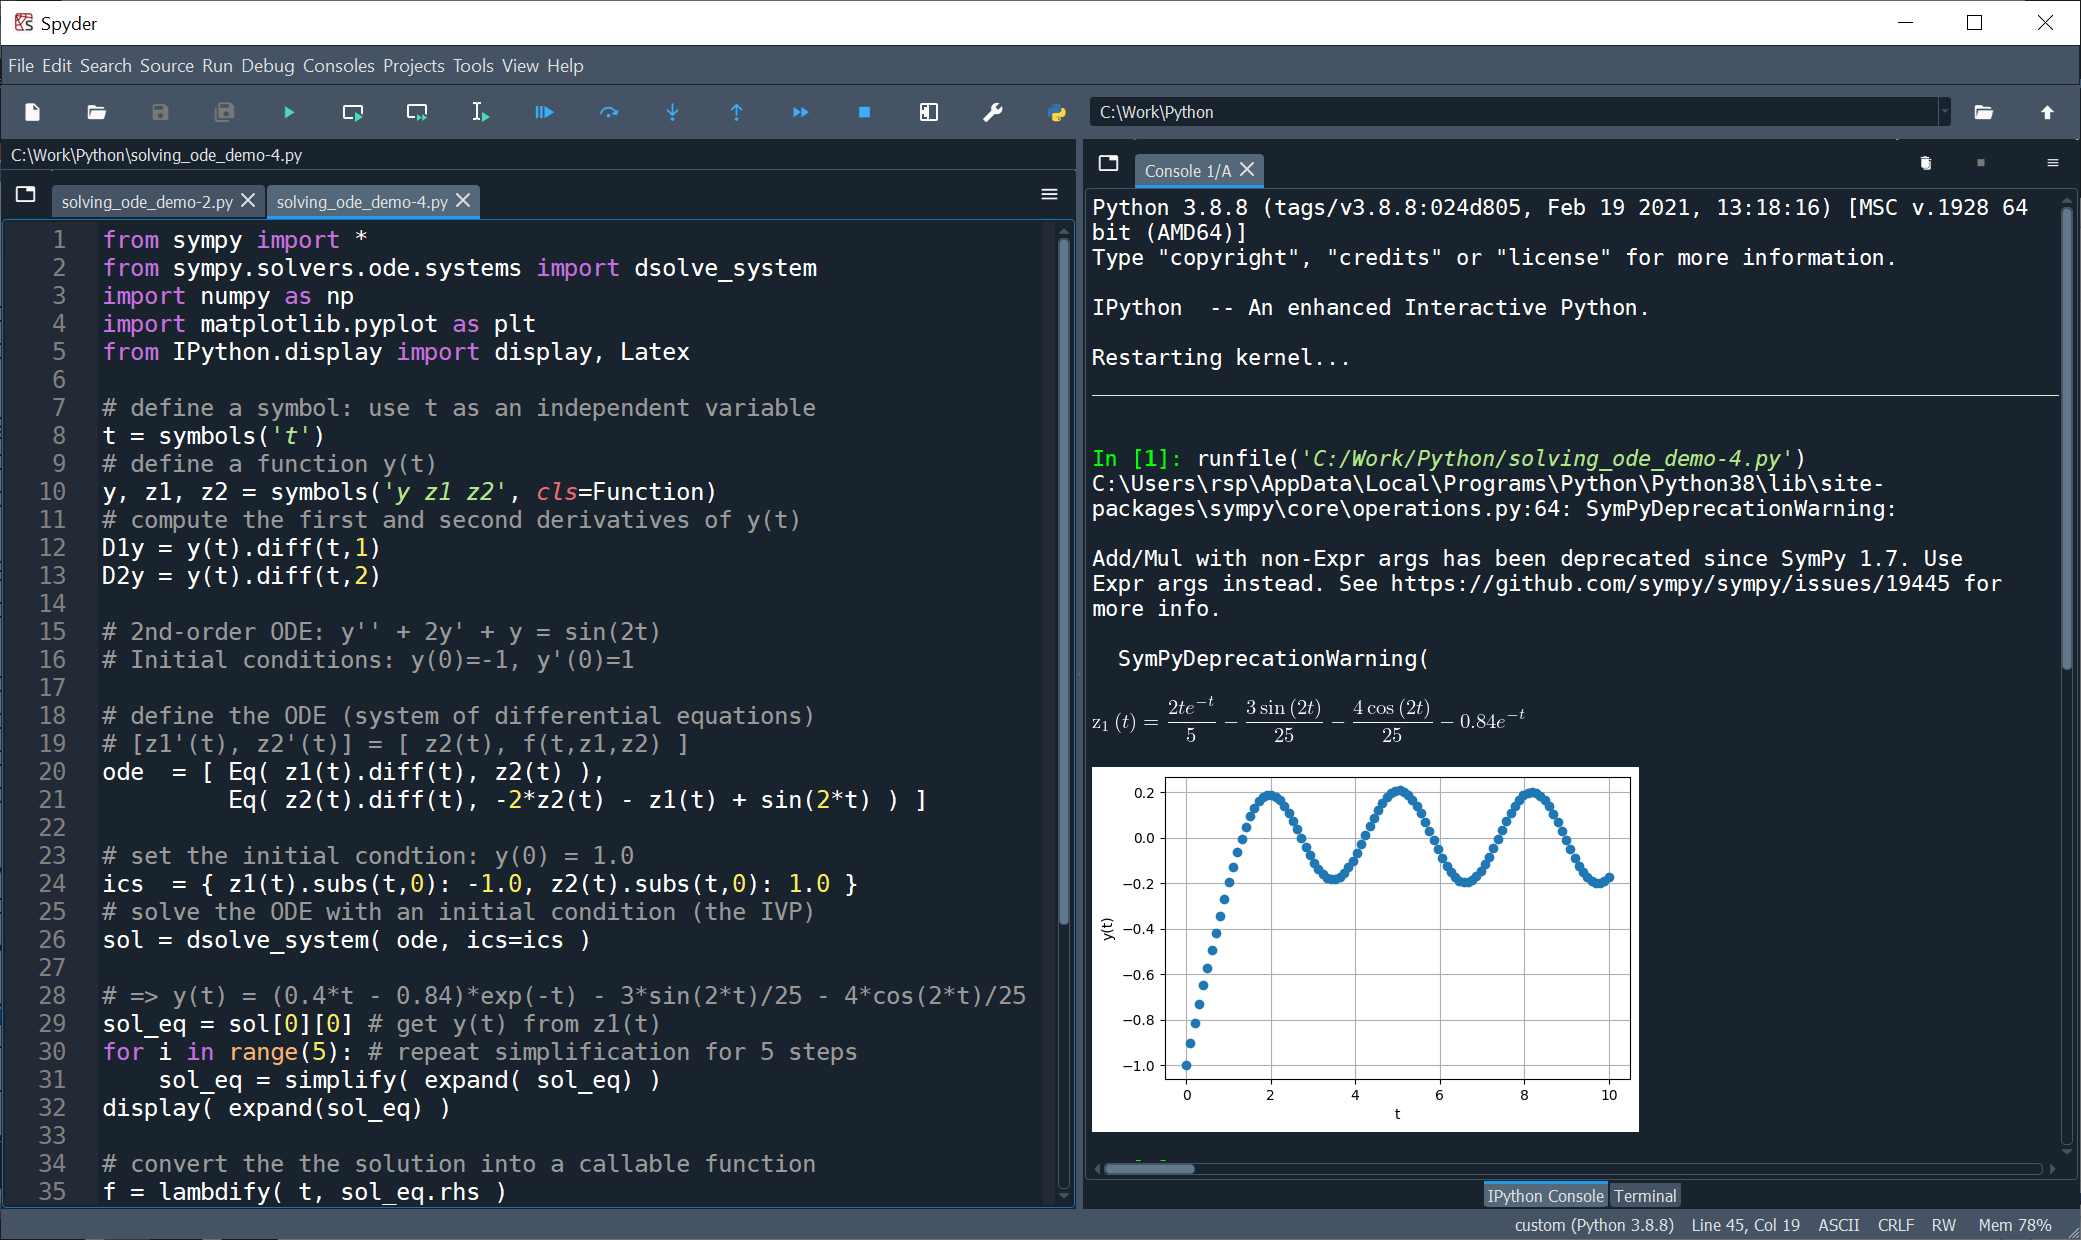
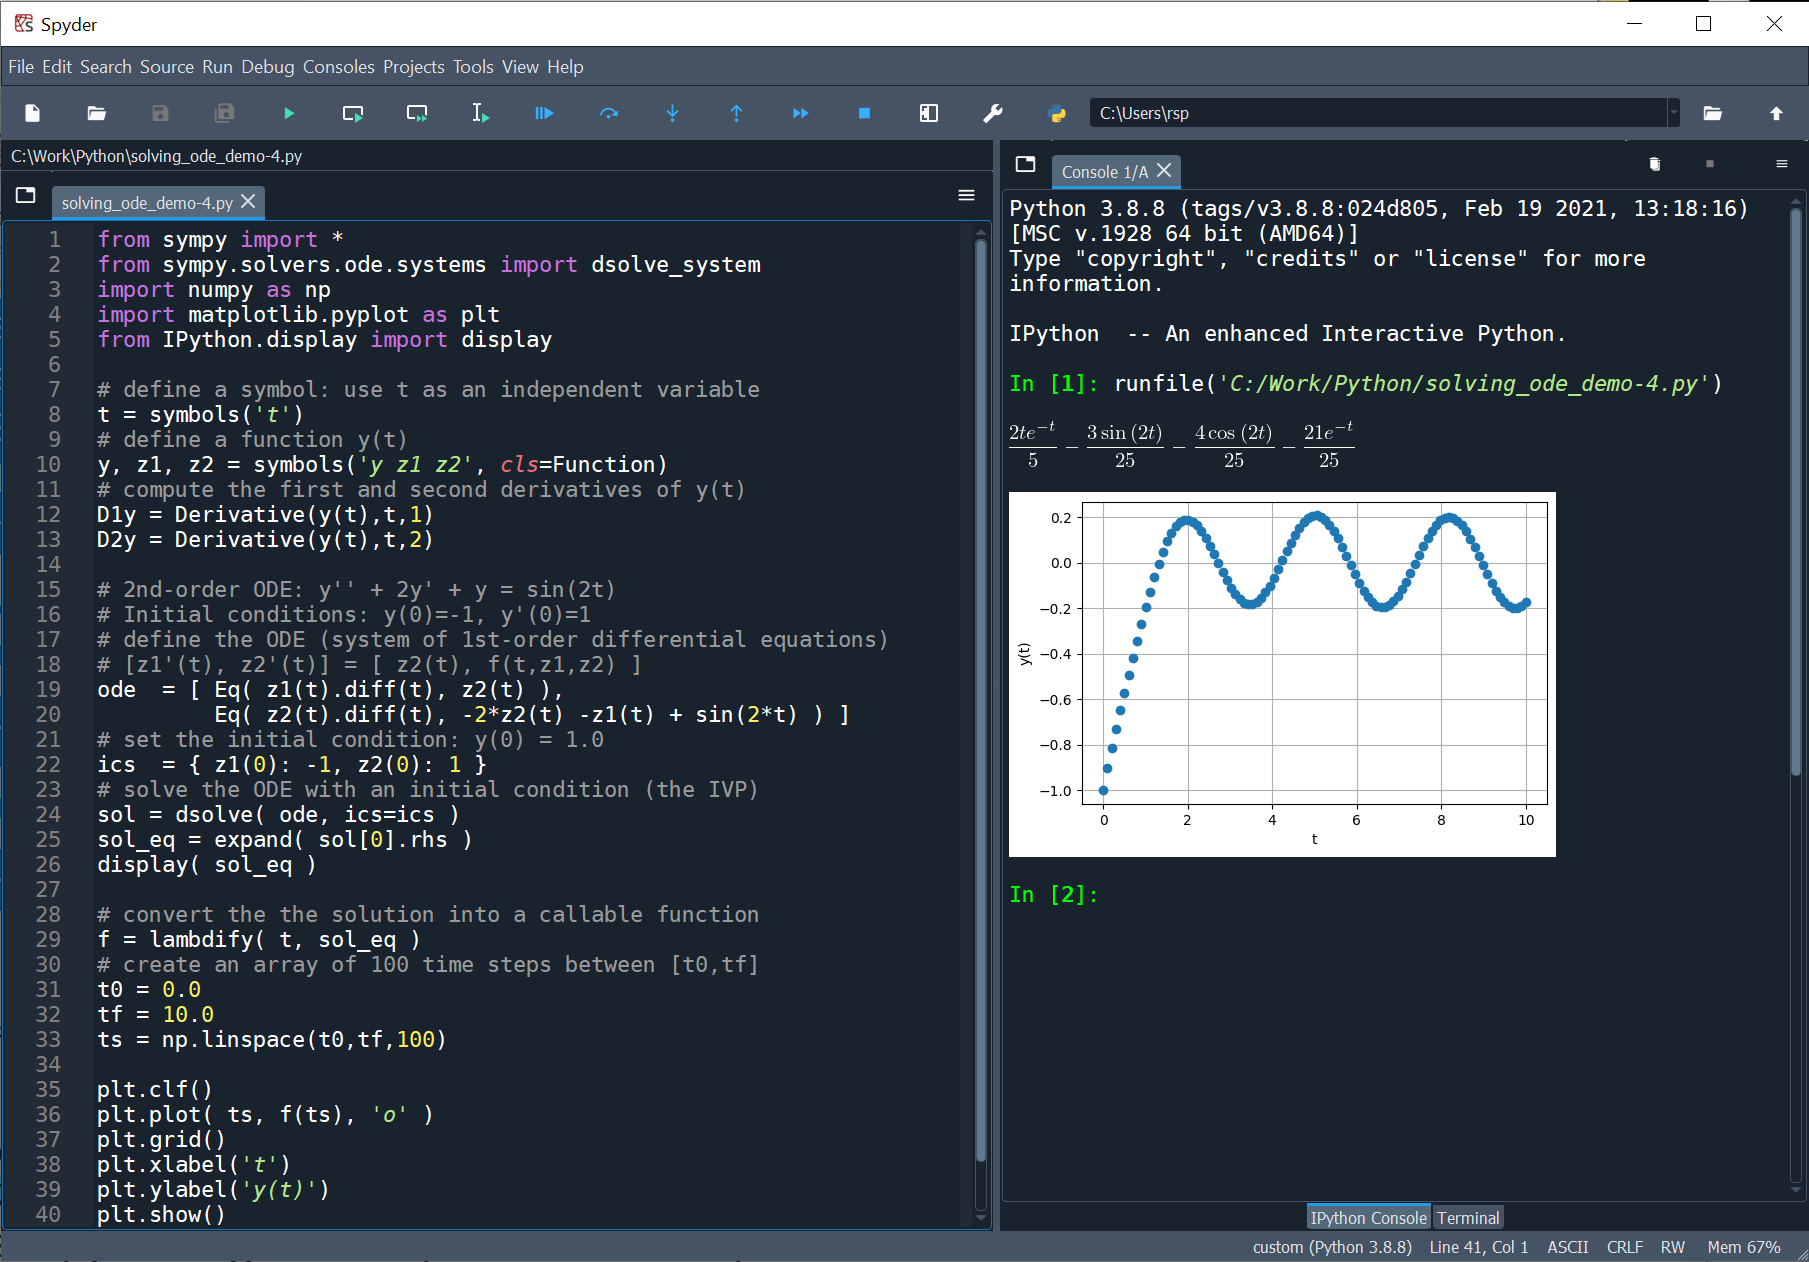
ีupdate matlab and python

Changed region(s): [[0.0, 0.0, 1.0, 1.0], [0.9287, 0.0, 0.9906, 0.0306], [0.9906, 0.0613, 1.0, 0.0919]]

diff --git a/python/python_ode_solving/index.html b/python/python_ode_solving/index.html
@@ -493,16 +493,15 @@ D2y = y.diff(t,2)
 
 # 2nd-order ODE: y'' + 2y' + y = sin(2t)
 # Initial conditions: y(0)=-1, y'(0)=1
-
 # define the ODE
 ode  = Eq( D2y + 2*D1y + y, sin(2*t) )
-# set the initial condtion: y(0) = 1.0
-ics  = { y.subs(t,0): -1.0, D1y.subs(t,0): 1.0 }
+# set the initial condition: y(0) = 1.0
+ics  = { y.subs(t,0): -1, D1y.subs(t,0): 1 }
 # solve the ODE with an initial condition (the IVP)
 sol  = dsolve( ode, ics=ics )
 print( sol.lhs, '=', sol.rhs )
 display( Eq( sol.lhs, sol.rhs ) )
-# =&gt; y(t) = (0.4*t - 0.84)*exp(-t) - 3*sin(2*t)/25 - 4*cos(2*t)/25
+# =&gt; y(t) = (2*t/5 - 21/25)*exp(-t) - 3*sin(2*t)/25 - 4*cos(2*t)/25
 
 # convert the the solution into a callable function
 f = lambdify( t, sol.rhs )
@@ -569,7 +568,7 @@ plt.show()
 from sympy.solvers.ode.systems import dsolve_system
 import numpy as np
 import matplotlib.pyplot as plt
-from IPython.display import display, Latex
+from IPython.display import display
 
 # define a symbol: use t as an independent variable
 t = symbols('t')
@@ -581,25 +580,19 @@ D2y = Derivative(y(t),t,2)
 
 # 2nd-order ODE: y'' + 2y' + y = sin(2t)
 # Initial conditions: y(0)=-1, y'(0)=1
-
 # define the ODE (system of 1st-order differential equations)
 # [z1'(t), z2'(t)] = [ z2(t), f(t,z1,z2) ]
 ode  = [ Eq( z1(t).diff(t), z2(t) ), 
          Eq( z2(t).diff(t), -2*z2(t) -z1(t) + sin(2*t) ) ]
-
-# set the initial condtion: y(0) = 1.0
-ics  = { z1(0): -1.0, z2(0): 1.0 }
+# set the initial condition: y(0) = 1.0
+ics  = { z1(0): -1, z2(0): 1 }
 # solve the ODE with an initial condition (the IVP)
-sol = dsolve_system( ode, ics=ics )
-
-# =&gt; y(t) = (0.4*t - 0.84)*exp(-t) - 3*sin(2*t)/25 - 4*cos(2*t)/25
-sol_eq = sol[0][0] # get y(t) from z1(t)
-for i in range(5): # repeat simplification for 5 steps
-    sol_eq = simplify( expand( sol_eq) ) 
-display( expand(sol_eq) )
+sol = dsolve( ode, ics=ics )
+sol_eq = expand( sol[0].rhs ) 
+display( sol_eq )
 
 # convert the the solution into a callable function
-f = lambdify( t, sol_eq.rhs )
+f = lambdify( t, sol_eq )
 # create an array of 100 time steps between [t0,tf]
 t0 = 0.0
 tf = 10.0
@@ -613,7 +606,8 @@ plt.ylabel('y(t)')
 plt.show()
 </code></pre>
 <p><img alt="" src="python_output2-3.png" /></p>
-<p>รูป: ผลลัพธ์จากการรันโค้ดเพื่อสาธิตการใช้คำสั่ง <code>dsolve_system()</code></p>
+<p>รูป: ผลลัพธ์จากการรันโค้ดเพื่อสาธิตการใช้คำสั่ง <code>dsolve()</code></p>
+<p>&nbsp;</p>
 <p>ลองมาดูตัวอย่างการคำนวณด้วยวิธีเชิงตัวเลข โดยใช้คำสั่ง <code>solve_ivp()</code> ของ <strong>SciPy</strong></p>
 <pre><code class="language-python">import numpy as np
 from scipy.integrate import solve_ivp
@@ -621,7 +615,6 @@ import matplotlib.pyplot as plt
 
 # 2nd-order ODE: y'' + 2y' + y = sin(2t)
 # Initial conditions: y(0)=-1, y'(0)=1
-
 t0 = 0.0   # start point for t
 tf = 10.0  # end point for t
 h  = 0.05  # step size
@@ -840,7 +833,7 @@ plt.show()
 <p>&nbsp;</p>
 <hr />
 <p><em>This work is licensed under a</em> <strong><em>Creative Commons Attribution-ShareAlike 4.0 International License</em></strong>.</p>
-<p>Created: 2022-04-14 | Last Updated: 2022-04-23</p></div>
+<p>Created: 2022-04-14 | Last Updated: 2022-04-29</p></div>
             </div>
         </div>
 

diff --git a/matlab/matlab_laplace_ode_solving/index.html b/matlab/matlab_laplace_ode_solving/index.html
@@ -139,7 +139,7 @@
 <li>ฟังก์ชันเจาะจงในสมการเชิงอนุพันธ์สามัญนั้นเป็นฟังก์ชันที่สามารถหาผลการแปลงลาปลาซได้ เช่น
 ฟังก์ชันที่เป็นค่าคงที่ ฟังก์ชันขั้นบันได ฟังก์ชันเลขชี้กำลัง-เอกซ์โพเนนเชียล ฟังก์ชันไซน์หรือและโคไซน์  เป็นต้น</li>
 </ol>
-<p>ฟังก์ชันและอนุพันธ์ของฟังก์ชัน (<strong>Deriviatives</strong>) ในโดเมนของตัวแปร <script type="math/tex">t</script> จะถูกแปลงให้อยู่ในรูปของฟังก์ชันในโดเมน <script type="math/tex">s</script> โดยทั่วไปแล้วจะอยู่ในรูปของเศษส่วนพหุนาม (<strong>Rational Polynomials</strong>) ของตัวแปร <script type="math/tex">s</script> จากนั้นจึงสามารถใช้เทคนิคต่าง ๆ ทางพีชคณิต (<strong>Algebraic Manipulation</strong>) กับผลการแปลงลาปลาซดังกล่าว แล้วนำไปหาผลการแปลงลาปลาซผกผัน (<strong>Inverse Laplace Transform</strong>) เพื่อให้ได้ฟังก์ชันที่เป็นผลเฉลยในโดเมน <script type="math/tex">t</script>
+<p>ฟังก์ชันและอนุพันธ์ของฟังก์ชัน (<strong>Derivatives</strong>) ในโดเมนของตัวแปร <script type="math/tex">t</script> จะถูกแปลงให้อยู่ในรูปของฟังก์ชันในโดเมน <script type="math/tex">s</script> โดยทั่วไปแล้วจะอยู่ในรูปของเศษส่วนพหุนาม (<strong>Rational Polynomials</strong>) ของตัวแปร <script type="math/tex">s</script> จากนั้นจึงสามารถใช้เทคนิคต่าง ๆ ทางพีชคณิต (<strong>Algebraic Manipulation</strong>) กับผลการแปลงลาปลาซดังกล่าว แล้วนำไปหาผลการแปลงลาปลาซผกผัน (<strong>Inverse Laplace Transform</strong>) เพื่อให้ได้ฟังก์ชันที่เป็นผลเฉลยในโดเมน <script type="math/tex">t</script>
 </p>
 <p>ลองมาดูตัวอย่าง สมการเชิงอนุพันธ์สามัญอันดับที่ <script type="math/tex">n</script> และเป็นไปตามข้อ 1</p>
 <p>
